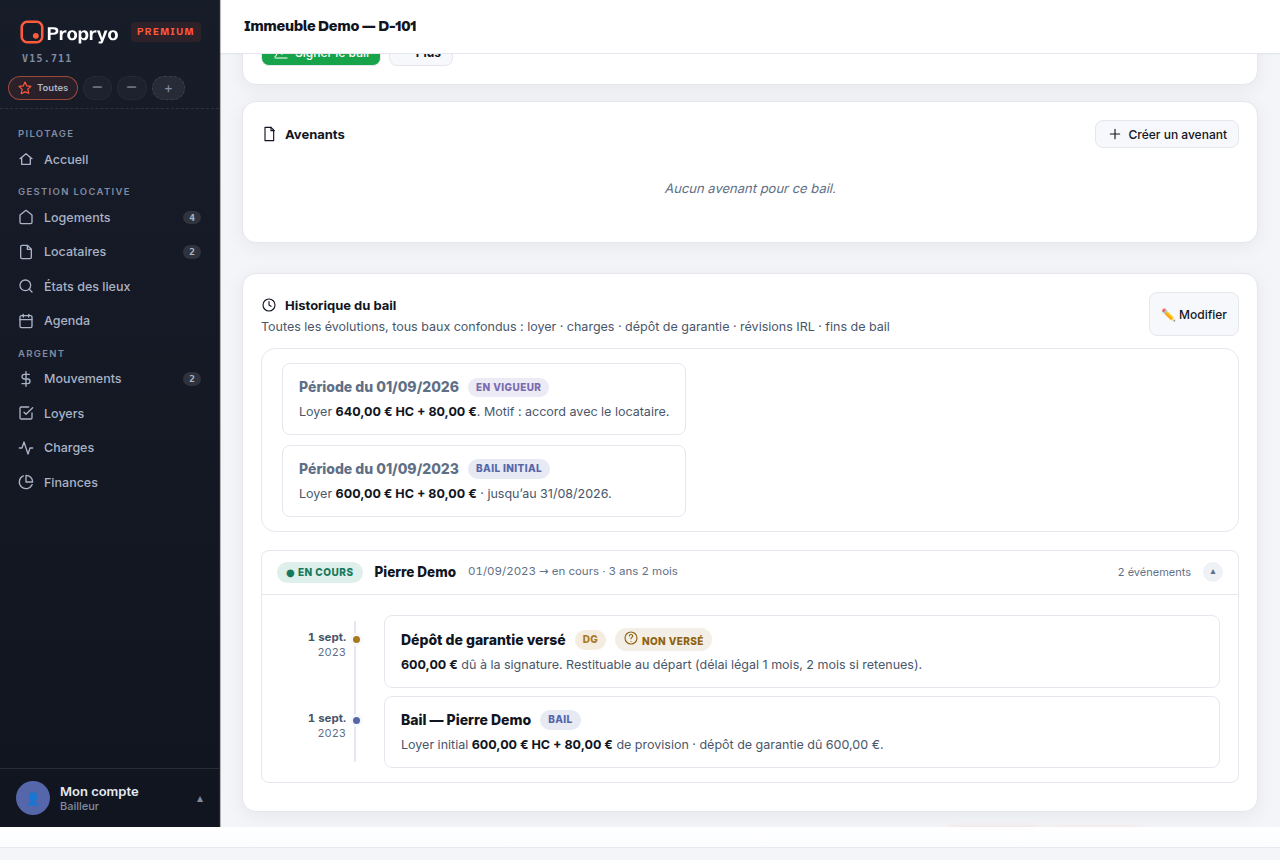
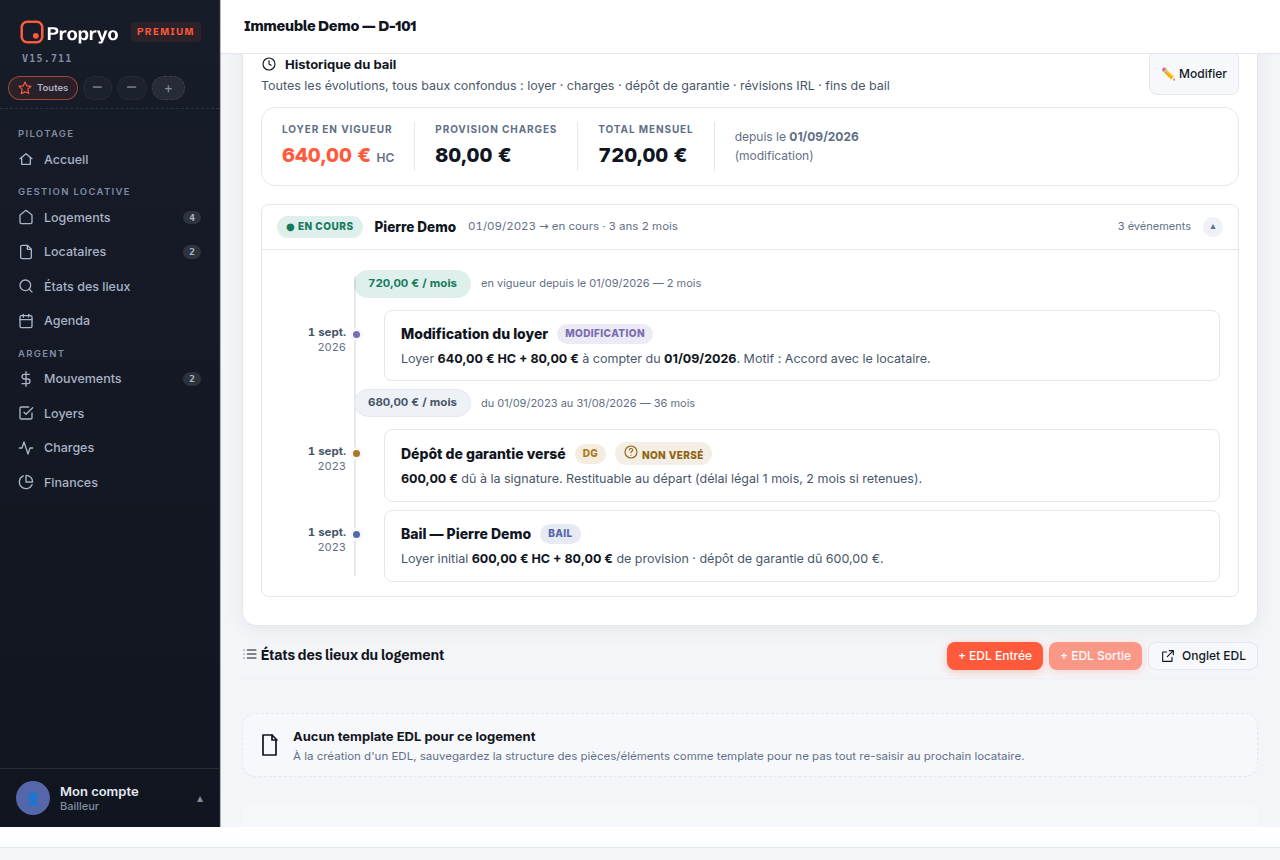
Pilotage : maquette Bail en cours — Modifier/sélection sur l'historique réel (plus de bloc ajouté)
Claude-Session: https://claude.ai/code/session_01TaKKhFh1iMTcfYbiX1p9zo

diff --git a/docs/subjects/RETOURS-2026-10-05.md b/docs/subjects/RETOURS-2026-10-05.md
@@ -241,3 +241,4 @@ Les 20 € (accord suite à la panne électrique) : **aucun moyen** de dire « m
 - 2026-10-06 : **phase 3, maquettes faites dans la vraie app** (`mockups/BAIL-EN-COURS/captures/`, 3 formats, clair + sombre, scripts `shoot*.mjs`). Validées par Didier : DG versé (coche dans « Modifier le bail »), bail signé en dehors de Propryo (coche + PJ facultative, date de signature existante), nom d'affichage (fiche + liste), EDL hors Propryo (classé dans Documents du logement, section « États des lieux », PAS via « Nouvel EDL »), signature à distance expirée (Relancer / Signé hors Propryo / Annuler la session). **À valider** : correction de date et annulation d'une modification de bail (`modif-bail-*`). Point ouvert pour la conception Opus : sort d'une signature déjà recueillie sur une session expirée annulée ; verrou, scellement cloud et journal `baux_evenements` d'un bail signé hors Propryo ; recalcul du dû à la correction/annulation d'une modification.
 - 2026-10-06 (retour Didier) : maquette « corriger la date / annuler » REFAITE (`periodes-*`) : le bouton d'en-tête « Corriger une période » DISPARAÎT ; chaque période de l'historique porte un bouton « Modifier » (date d'effet, loyer HC, charges, motif au journal, alerte d'impact non bloquante, « Supprimer cette période » dans la fenêtre). À valider. Question ouverte : comment ajouter une période manquante une fois « Corriger une période » retiré.
 - 2026-10-06 (retour Didier, 2ᵉ) : un SEUL bouton « Modifier » dans l'en-tête de l'historique (à la place de « Corriger une période »), puis on SÉLECTIONNE la période à modifier (puces radio, barre « Sélectionne la période à modifier » + « Modifier la période sélectionnée ») et la fenêtre « Modifier la période » s'ouvre (date d'effet, loyer HC, charges, motif au journal, alerte d'impact non bloquante, « Supprimer cette période »). Maquettes `periodes-historique|selection|modifier-*`. Remplace la version « bouton sur chaque carte ».
+- 2026-10-06 (correction) : la maquette précédente ajoutait un 2ᵉ bloc d'historique (erreur). REFAITE sur l'historique RÉEL (bandeau « Loyer en vigueur » + chapitre « En cours » + ligne de temps, pastilles `.hl-period`) avec de vraies périodes de barème : le bouton « Corriger une période » devient « ✏ Modifier » (même place) ; au clic, une puce de sélection apparaît sur chaque PÉRIODE (pastilles « 720 € / mois », « 680 € / mois »), les cartes non modifiables ici (DG, bail) sont atténuées, barre « Sélectionne la période à modifier » ; puis fenêtre « Modifier la période ». Aucun bloc ajouté.
